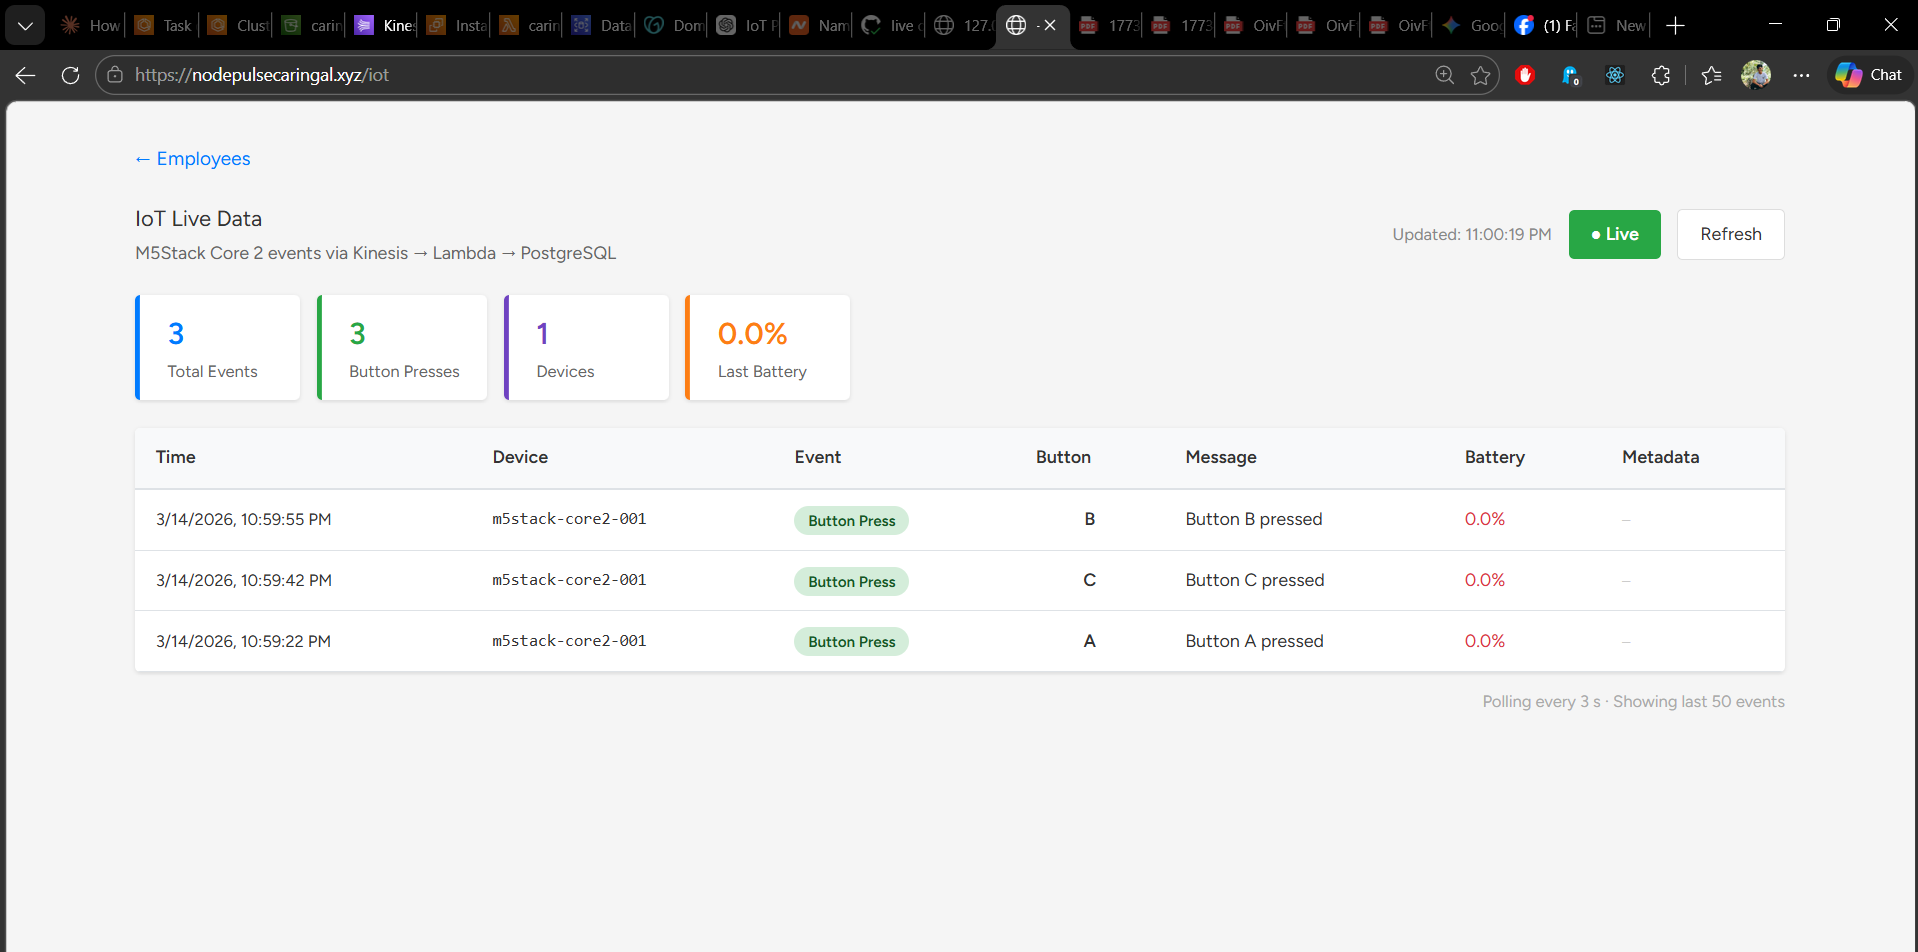
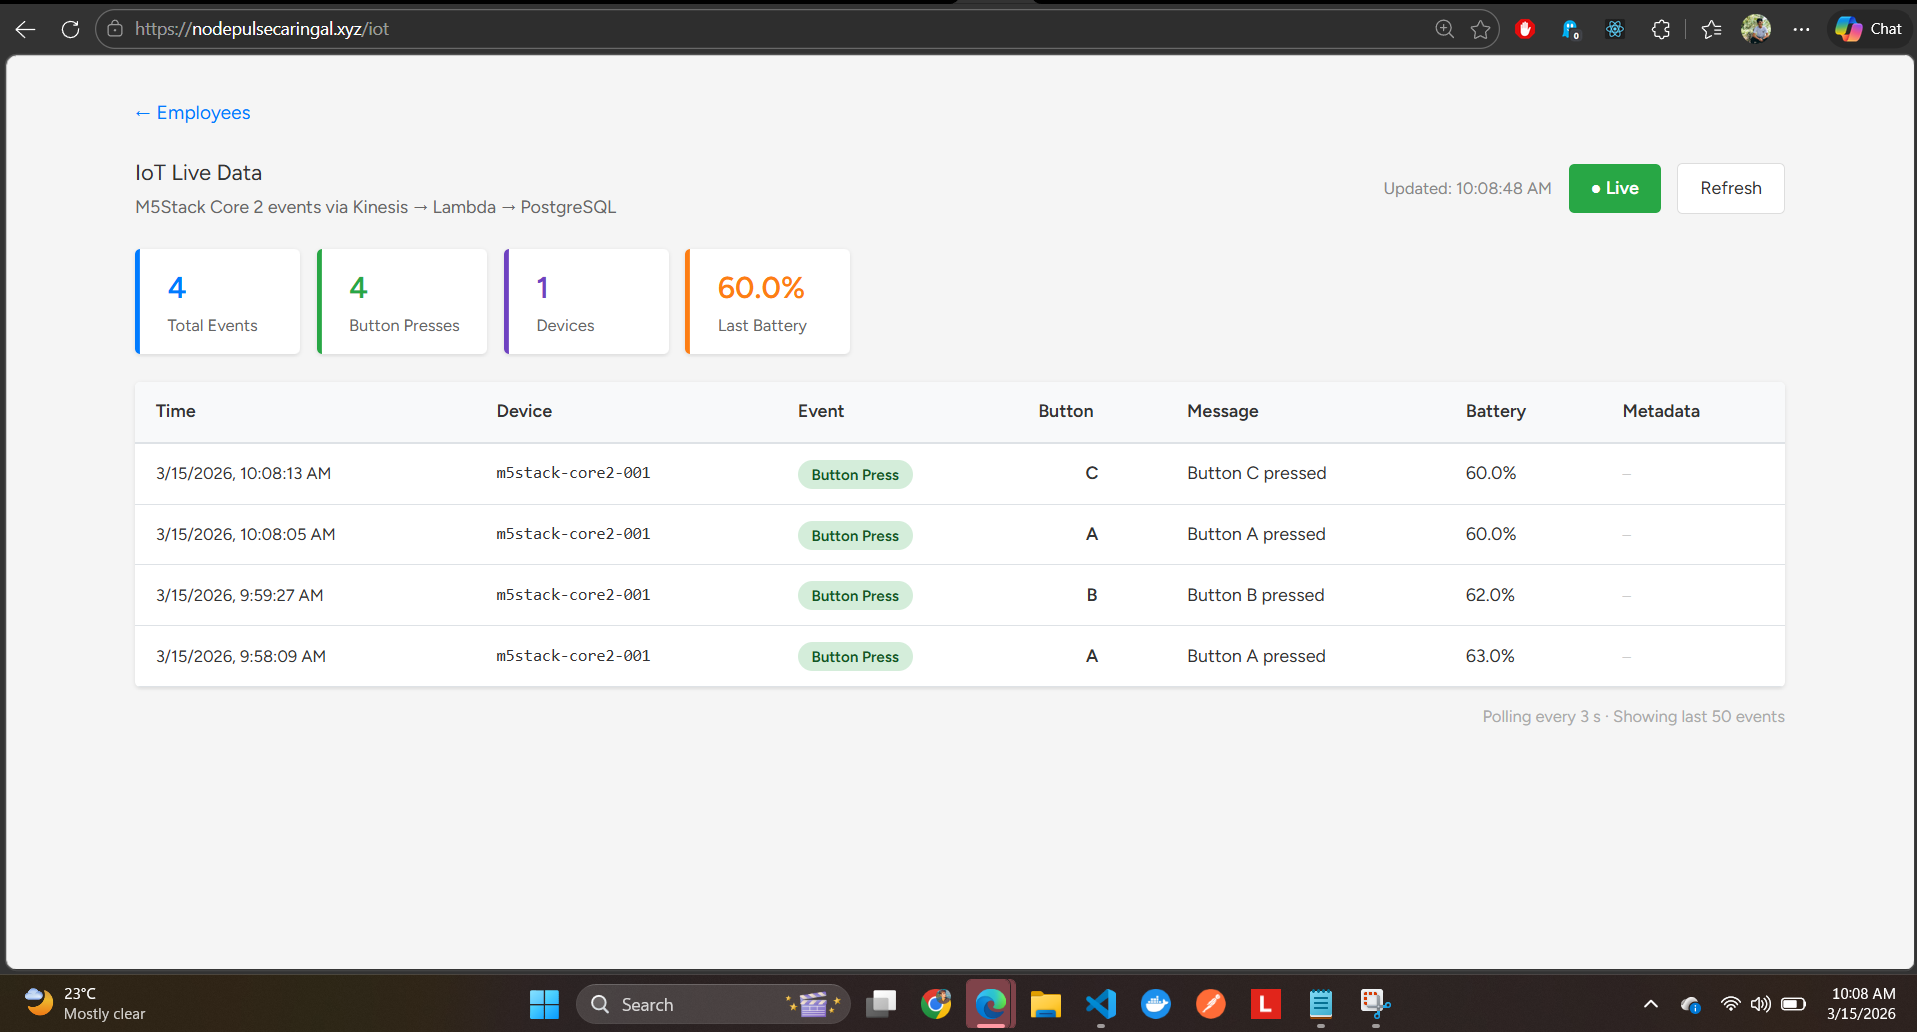
added delete iot

diff --git a/resources/js/Pages/IoT/Index.jsx b/resources/js/Pages/IoT/Index.jsx
@@ -24,7 +24,29 @@ export default function IoTIndex() {
     const [error, setError] = useState(null);
     const [lastUpdated, setLastUpdated] = useState(null);
     const [live, setLive] = useState(true);
+    const [resetting, setResetting] = useState(false);
     const intervalRef = useRef(null);
+
+    const resetEvents = async () => {
+        if (!window.confirm('Delete all IoT events? This cannot be undone.')) return;
+        setResetting(true);
+        try {
+            const res = await fetch('/iot-events', {
+                method: 'DELETE',
+                headers: {
+                    'X-CSRF-TOKEN': document.querySelector('meta[name="csrf-token"]')?.content,
+                    'Accept': 'application/json',
+                },
+            });
+            if (!res.ok) throw new Error(`HTTP ${res.status}`);
+            setEvents([]);
+            setLastUpdated(new Date());
+        } catch (e) {
+            setError('Failed to reset events: ' + e.message);
+        } finally {
+            setResetting(false);
+        }
+    };
 
     const fetchEvents = async () => {
         try {
@@ -115,6 +137,22 @@ export default function IoTIndex() {
                             }}
                         >
                             Refresh
+                        </button>
+                        <button
+                            onClick={resetEvents}
+                            disabled={resetting}
+                            style={{
+                                padding: '8px 16px',
+                                borderRadius: '4px',
+                                border: '1px solid #dc3545',
+                                cursor: resetting ? 'not-allowed' : 'pointer',
+                                fontSize: '13px',
+                                background: 'white',
+                                color: '#dc3545',
+                                opacity: resetting ? 0.6 : 1,
+                            }}
+                        >
+                            {resetting ? 'Resetting...' : 'Reset Data'}
                         </button>
                     </div>
                 </div>

diff --git a/routes/web.php b/routes/web.php
@@ -18,3 +18,4 @@ Route::resource('employees', EmployeeController::class);
 // IoT Live Data
 Route::get('/iot', [IotEventController::class, 'index'])->name('iot.index');
 Route::get('/iot-events', [IotEventController::class, 'events'])->name('iot.events');
+Route::delete('/iot-events', [IotEventController::class, 'destroy'])->name('iot.destroy');

diff --git a/app/Http/Controllers/IotEventController.php b/app/Http/Controllers/IotEventController.php
@@ -23,4 +23,12 @@ class IotEventController extends Controller
 
         return response()->json($events);
     }
+
+    // Delete all IoT events — fresh slate
+    public function destroy(Request $request)
+    {
+        IotEvent::truncate();
+
+        return response()->json(['message' => 'All IoT events deleted.']);
+    }
 }
